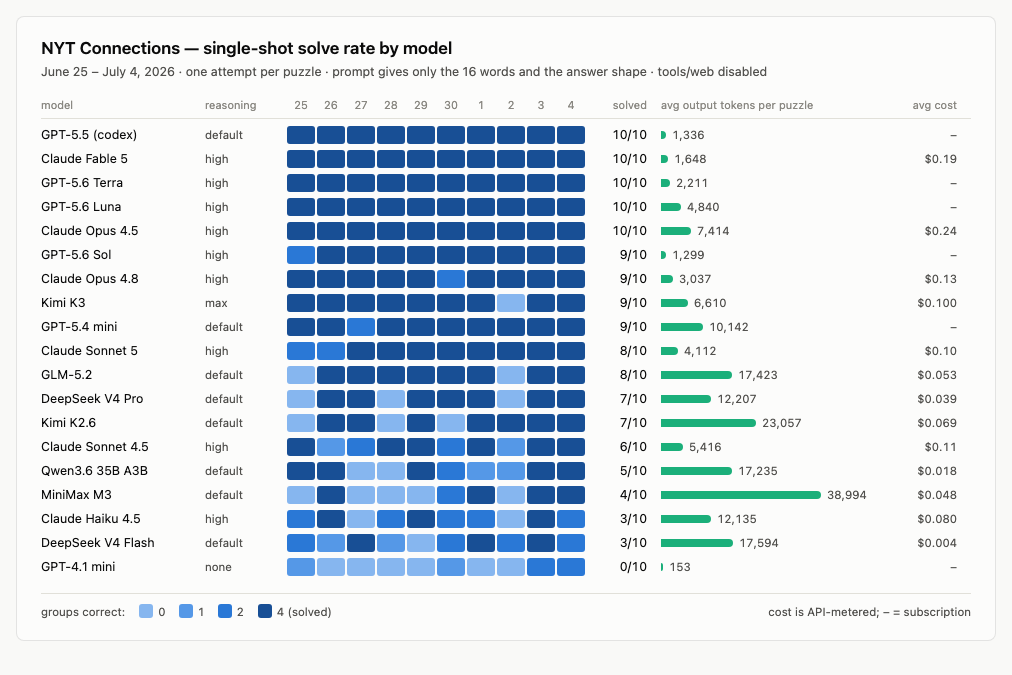
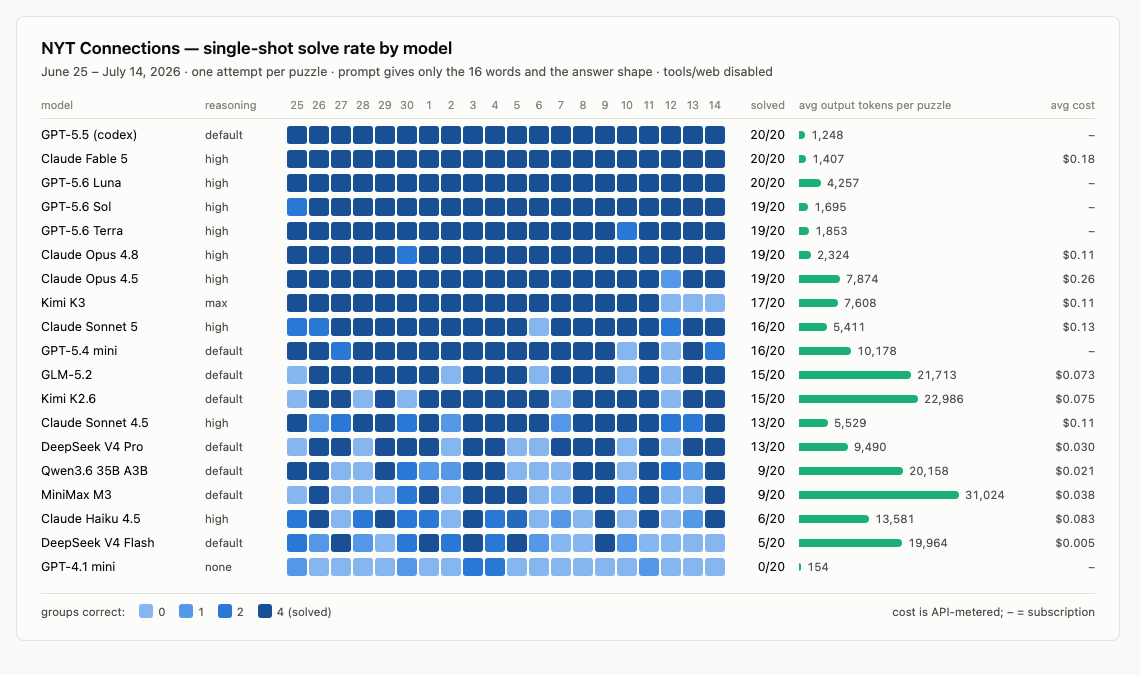
Extend sweep to 20 days (June 25 - July 14) and bound OpenRouter requests
Full 19-model roster over ten more puzzles. GPT-5.5, Claude Fable 5 and
GPT-5.6 Luna swept all twenty; the GPT-5.6 family went 58/60.

Kimi K3 leads the open-weight field at 17/20, ahead of GLM-5.2 and K2.6 (both
15/20) on a third of K2.6's thinking tokens. All three of its non-solves were
transport failures on a model released mid-sweep -- it has not missed a puzzle
in 17 valid attempts. Four retry passes recovered six other throttled attempts
but never cleared those three; the caveat says so rather than implying 17/20 is
a reasoning result.

Also fixes two real bugs found while chasing those failures:

- urlopen's timeout is per socket operation, so OpenRouter's whitespace
  keepalive padding reset it on every chunk and --timeout never fired; requests
  could run unbounded (one orphaned codex child ran 8h). read_with_deadline now
  bounds on total elapsed time, using read1() so the deadline is checked between
  chunks rather than waiting for a 64KB buffer to fill from 11-byte padding.
- An all-padding body (provider never answered) surfaced as a JSONDecodeError
  pointing at the end of the response. It now reports no-payload directly.

Figure widened to fit 20 columns.

diff --git a/bench.py b/bench.py
@@ -134,6 +134,32 @@ def codex_api_home() -> Path:
     return home
 
 
+def read_with_deadline(req: urllib.request.Request, timeout: int) -> bytes:
+    """Fetch a request body, bounded by total elapsed time rather than idle time.
+
+    urlopen's timeout is per socket operation, so a server that trickles
+    keepalive padding resets it on every chunk and the request can outlive
+    --timeout indefinitely. read1() returns as soon as any bytes are available
+    (read() would block until its buffer filled, which 11-byte padding units
+    take forever to do), so the deadline is checked between chunks.
+    """
+    start = time.monotonic()
+    chunks = []
+    with urllib.request.urlopen(req, timeout=timeout) as resp:
+        while True:
+            elapsed = time.monotonic() - start
+            if elapsed > timeout:
+                raise TimeoutError(
+                    f"openrouter request exceeded {timeout}s "
+                    f"({sum(len(c) for c in chunks)} bytes received, "
+                    f"no complete payload)")
+            chunk = resp.read1(65536)
+            if not chunk:
+                break
+            chunks.append(chunk)
+    return b"".join(chunks)
+
+
 def run_openrouter(prompt: str, model: str | None, effort: str | None,
                    timeout: int) -> dict:
     if not model:
@@ -154,8 +180,16 @@ def run_openrouter(prompt: str, model: str | None, effort: str | None,
             "Content-Type": "application/json",
         },
     )
-    with urllib.request.urlopen(req, timeout=timeout) as resp:
-        data = json.loads(resp.read())
+    raw = read_with_deadline(req, timeout)
+    # OpenRouter pads a slow non-streaming response with whitespace keepalives
+    # while it waits on the provider. json.loads skips those, but if the
+    # provider never answers we get padding and nothing else -- report that as
+    # what it is instead of a JSONDecodeError pointing at the end of the body.
+    if not raw.strip():
+        raise RuntimeError(
+            f"openrouter sent {len(raw)} bytes of keepalive padding and no "
+            f"payload: {model} did not return a completion")
+    data = json.loads(raw)
     if data.get("error"):
         raise RuntimeError(f"openrouter error: {data['error']}")
     usage = data.get("usage", {})

diff --git a/viz.py b/viz.py
@@ -128,19 +128,19 @@ def build() -> str:
   body {{ margin: 0; background: var(--plane);
     font: 14px/1.4 system-ui, -apple-system, "Segoe UI", sans-serif; color: var(--ink); }}
   .fig {{ background: var(--surface); border: 1px solid var(--ring);
-    border-radius: 8px; margin: 16px; padding: 20px 24px; width: 980px; box-sizing: border-box; }}
+    border-radius: 8px; margin: 16px; padding: 20px 24px; width: 1104px; box-sizing: border-box; }}
   h1 {{ font-size: 17px; margin: 0 0 2px; font-weight: 600; }}
   .sub {{ color: var(--ink2); font-size: 12.5px; margin-bottom: 14px; }}
-  .row, .hdr {{ display: grid; grid-template-columns: 150px 68px 300px 46px 226px 56px;
+  .row, .hdr {{ display: grid; grid-template-columns: 150px 68px 438px 46px 226px 56px;
     gap: 14px; align-items: center; padding: 3px 0; }}
   .hdr {{ color: var(--muted); font-size: 11px; border-bottom: 1px solid var(--hairline);
     padding-bottom: 5px; margin-bottom: 4px; }}
   .hdr .days {{ display: flex; gap: 2px; }}
-  .day {{ width: 28px; text-align: center; }}
+  .day {{ width: 20px; text-align: center; }}
   .name {{ font-size: 12.5px; white-space: nowrap; }}
   .reason {{ color: var(--ink2); font-size: 11.5px; white-space: nowrap; }}
   .cells {{ display: flex; gap: 2px; }}
-  .cell {{ width: 28px; height: 18px; border-radius: 3px; }}
+  .cell {{ width: 20px; height: 18px; border-radius: 3px; }}
   .cell.miss {{ background: transparent; box-shadow: inset 0 0 0 1px var(--hairline); }}
   .solved {{ font-variant-numeric: tabular-nums; font-size: 12.5px; text-align: right; }}
   .tok {{ display: flex; align-items: center; gap: 6px; }}

diff --git a/README.md b/README.md
@@ -6,32 +6,32 @@ no feedback, no tools.
 
 <picture>
   <source media="(prefers-color-scheme: dark)" srcset="assets/results-dark.png">
-  <img alt="Solve-rate grid: 19 models × 10 daily puzzles, with per-model reasoning level, solved counts, average output tokens, and cost" src="assets/results-light.png">
+  <img alt="Solve-rate grid: 19 models × 20 daily puzzles, with per-model reasoning level, solved counts, average output tokens, and cost" src="assets/results-light.png">
 </picture>
 
-## Results (June 25 – July 4, 2026)
+## Results (June 25 – July 14, 2026)
 
 | model | reasoning | solved | avg out tokens | avg cost/puzzle |
 |---|---|---|---|---|
-| GPT-5.5 (codex) | default | **10/10** | 1,336 | – (sub) |
-| Claude Fable 5 | high | **10/10** | 1,648 | $0.19 |
-| GPT-5.6 Terra | high | **10/10** | 2,211 | – (sub) |
-| GPT-5.6 Luna | high | **10/10** | 4,840 | – (sub) |
-| Claude Opus 4.5 | high | **10/10** | 7,414 | $0.24 |
-| GPT-5.6 Sol | high | 9/10 | 1,299 | – (sub) |
-| Claude Opus 4.8 | high | 9/10 | 3,037 | $0.13 |
-| Kimi K3 | max | 9/10 | 6,610 | $0.100 |
-| GPT-5.4 mini | default | 9/10 | 10,142 | – (sub) |
-| Claude Sonnet 5 | high | 8/10 | 4,112 | $0.10 |
-| GLM-5.2 | default | 8/10 | 17,423 | $0.053 |
-| DeepSeek V4 Pro | default | 7/10 | 12,207 | $0.039 |
-| Kimi K2.6 | default | 7/10 | 23,057 | $0.069 |
-| Claude Sonnet 4.5 | high | 6/10 | 5,416 | $0.11 |
-| Qwen3.6 35B A3B | default | 5/10 | 17,235 | $0.018 |
-| MiniMax M3 | default | 4/10 | 38,994 | $0.048 |
-| Claude Haiku 4.5 | high | 3/10 | 12,135 | $0.080 |
-| DeepSeek V4 Flash | default | 3/10 | 17,594 | $0.004 |
-| GPT-4.1 mini | none | 0/10 | 153 | – |
+| GPT-5.5 (codex) | default | **20/20** | 1,248 | – (sub) |
+| Claude Fable 5 | high | **20/20** | 1,407 | $0.18 |
+| GPT-5.6 Luna | high | **20/20** | 4,257 | – (sub) |
+| GPT-5.6 Sol | high | 19/20 | 1,695 | – (sub) |
+| GPT-5.6 Terra | high | 19/20 | 1,853 | – (sub) |
+| Claude Opus 4.8 | high | 19/20 | 2,324 | $0.11 |
+| Claude Opus 4.5 | high | 19/20 | 7,874 | $0.26 |
+| Kimi K3 | max | 17/20 | 7,608 | $0.11 |
+| Claude Sonnet 5 | high | 16/20 | 5,411 | $0.13 |
+| GPT-5.4 mini | default | 16/20 | 10,178 | – (sub) |
+| GLM-5.2 | default | 15/20 | 21,713 | $0.073 |
+| Kimi K2.6 | default | 15/20 | 22,986 | $0.075 |
+| Claude Sonnet 4.5 | high | 13/20 | 5,529 | $0.11 |
+| DeepSeek V4 Pro | default | 13/20 | 9,490 | $0.030 |
+| Qwen3.6 35B A3B | default | 9/20 | 20,158 | $0.021 |
+| MiniMax M3 | default | 9/20 | 31,024 | $0.038 |
+| Claude Haiku 4.5 | high | 6/20 | 13,581 | $0.083 |
+| DeepSeek V4 Flash | default | 5/20 | 19,964 | $0.005 |
+| GPT-4.1 mini | none | 0/20 | 154 | – |
 
 Reasoning levels aren't uniform, so the column is not an apples-to-apples knob:
 `high` is pinned explicitly via `@high` in the model spec; `default` means the
@@ -41,21 +41,24 @@ currently exposes only that one level.
 
 Things the sweep surfaced:
 
-- **The GPT-5.6 family went 29/30.** Terra and Luna swept all ten puzzles; Sol
-  got 2/4 groups on June 25 despite using the fewest average output tokens.
-- **Puzzle difficulty swings hard day to day** — July 3 fell to 18 of 19 models,
-  June 25 and July 2 to only 10. Single-day comparisons are noise.
+- **Three models swept all twenty**: GPT-5.5 (codex), Claude Fable 5, and
+  GPT-5.6 Luna. The GPT-5.6 family went 58/60 across its three variants.
+- **Puzzle difficulty swings hard day to day** — July 12 beat all but 6 of 19
+  models, while July 3 and July 9 fell to 18. Single-day comparisons are noise,
+  and even twenty days is a small sample.
 - **Reasoning is the entry ticket.** GPT-4.1 mini (no reasoning) answers in
-  ~150 tokens and went 0/10. Everything that deliberates solves at least a few.
-- **Capability shows up as token efficiency, not just accuracy.** The top models
-  average 1–5k output tokens; mid-tier models burn 10–40k for worse results.
-- **Kimi K3 leads the open-weight field** — 9/10, ahead of GLM-5.2 (8/10) and its
-  own predecessor K2.6 (7/10), and level with Claude Opus 4.8 and GPT-5.6 Sol. It
-  gets there while thinking a third as much as K2.6 (6.6k vs 23k output tokens),
-  so the generation's efficiency gains are real and not just accuracy gains. Its
-  one miss was a malformed API response rather than a wrong grouping — counted as
-  a failure, but see the caveat below.
-- **GLM-5.2 is still the value pick** — 8/10 at half K3's cost per puzzle.
+  ~150 tokens and went 0/20. Everything that deliberates solves at least a few.
+- **Capability shows up as token efficiency, not just accuracy.** The sweep's
+  three perfect scorers average 1.2–4.3k output tokens; mid-tier models burn
+  20–31k for half the solve rate.
+- **Kimi K3 leads the open-weight field** — 17/20, well ahead of GLM-5.2 and its
+  own predecessor K2.6 (both 15/20), while thinking a third as much as K2.6
+  (7.6k vs 23k output tokens). All three of its non-solves were transport
+  failures on a model released mid-sweep, never a wrong grouping: it has not
+  actually missed a puzzle in 17 valid attempts. See the caveat below — its true
+  rate is somewhere between 17/20 and 20/20 and this benchmark can't yet say
+  where.
+- **DeepSeek V4 Pro is the value pick** — 13/20 at $0.030, a third of K3's cost.
 
 ## How it works
 
@@ -114,7 +117,7 @@ the 15 shown words; grading expects three groups of four and one group of three.
 Use `summary --missing` to keep its results separate from the standard benchmark.
 
 The figure: `python3 viz.py` then
-`npx playwright screenshot --viewport-size "1012,675" --color-scheme light viz.html assets/results-light.png`
+`npx playwright screenshot --viewport-size "1140,675" --color-scheme light viz.html assets/results-light.png`
 (and again with `dark`).
 
 ## Caveats
@@ -129,12 +132,20 @@ The figure: `python3 viz.py` then
   is exact.
 - One attempt per (date, model) — solve rates on 10 puzzles carry ±1-puzzle
   noise; treat close rankings as ties.
-- **Errors count as failures**, which can understate a model when the fault is
-  the transport rather than the reasoning. Kimi K3's single miss (July 2) is a
-  `JSONDecodeError` raised while parsing OpenRouter's *response body*, reproduced
-  on three separate attempts at a different byte offset each time, on the puzzle
-  where it thinks longest. The response never reached grading, so nothing is
-  known about whether the grouping would have been right. Cause is unconfirmed;
-  the leading theory is keepalive lines injected into long-running non-streaming
-  responses, which would make it a `run_openrouter` parsing gap affecting any
-  slow model, not a K3 defect.
+- **Errors count as failures, and this understates Kimi K3.** K3 released on
+  July 16, mid-sweep, and its serving capacity has been erratic: of its 20
+  attempts, 3 never produced a response (two HTTP 429s, one request that hit the
+  900s deadline having received nothing but keepalive padding). Those score as
+  failures, so K3 shows 17/20 — but it solved **all 17** attempts that actually
+  returned. Its real rate is somewhere in 17/20–20/20 and this benchmark cannot
+  yet say where. Four retry passes over two days recovered six other throttled
+  attempts (all solved) but never cleared these three. Rerun once Moonshot
+  capacity settles.
+- **OpenRouter pads slow non-streaming responses** with whitespace keepalives
+  while waiting on the provider. `json.loads` skips them, but if the provider
+  never answers, padding is all you get. `run_openrouter` reports that as
+  "no payload" rather than a confusing `JSONDecodeError` at the end of the body.
+  Note also that `urlopen`'s timeout is per-socket-operation, so padding would
+  reset it forever; `read_with_deadline` bounds the request on total elapsed
+  time instead. That deadline is monotonic-clock based, so it does not count
+  time the machine spends asleep.